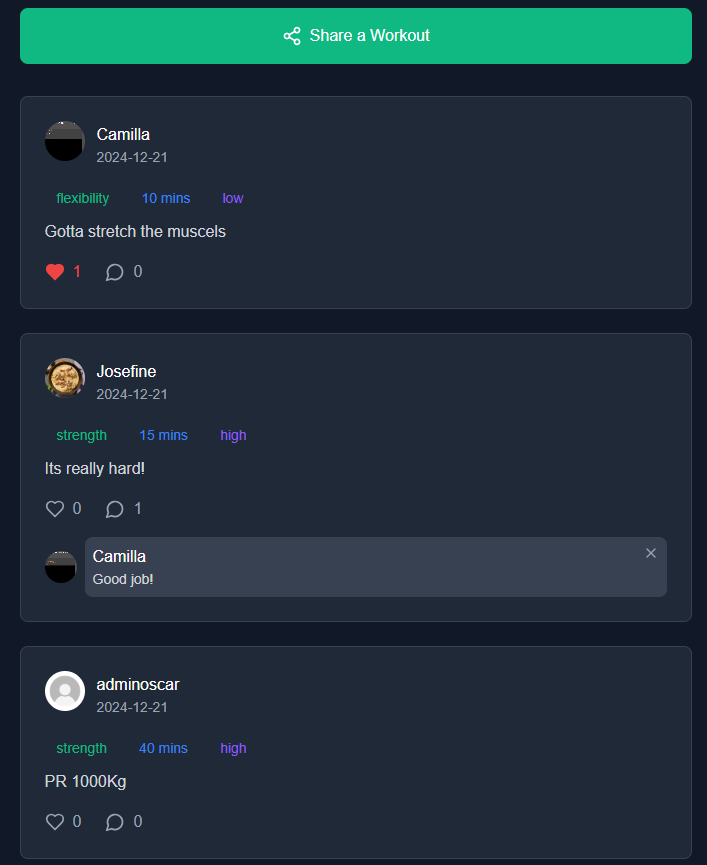
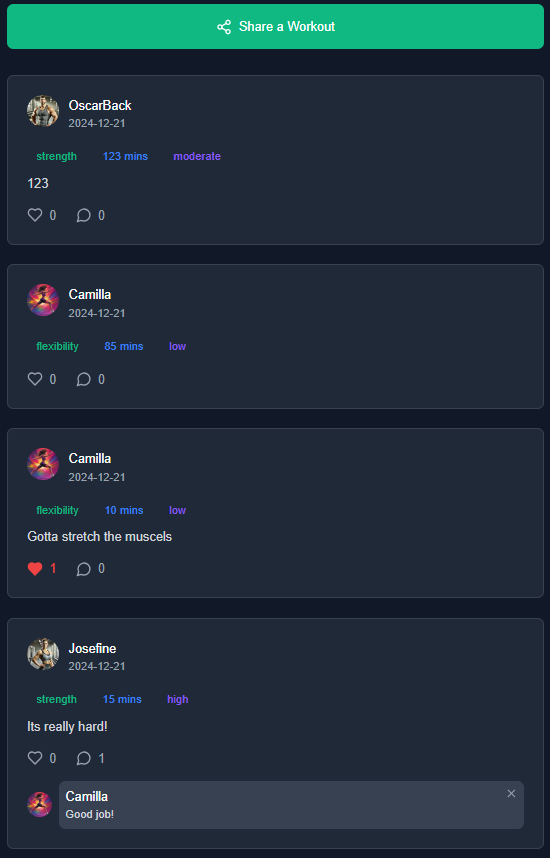
update feed image in readme and change actuall in testing forgotpassword

diff --git a/TESTING.md b/TESTING.md
@@ -44,8 +44,8 @@ Comprehensive testing was performed on all features of the FitPro application. B
 
 | Description | Steps | Expected | Actual | Status |
 |------------|-------|-----------|---------|---------|
-| Forgot password | 1. Click "Forgot Password" link on sign in page<br>2. Enter email address<br>3. Submit form | Form submits successfully, confirmation email sent, success message appears | Form submits but email not received | ❌ Fail |
-| Reset password | 1. Click reset link in email<br>2. Enter new password<br>3. Confirm new password<br>4. Submit form | Password updates successfully, redirect to login page, success message appears | Reset functionality not working | ❌ Fail |
+| Forgot password | 1. Click "Forgot Password" link on sign in page<br>2. Enter email address<br>3. Submit form | Form submits successfully, confirmation email sent, success message appears | Failed to process request | ❌ Fail |
+| Reset password | 1. Click reset link in email<br>2. Enter new password<br>3. Confirm new password<br>4. Submit form | Password updates successfully, redirect to login page, success message appears | Mail is not functioning, therefore fail | ❌ Fail |
 
 ### Additional Test Cases
 
